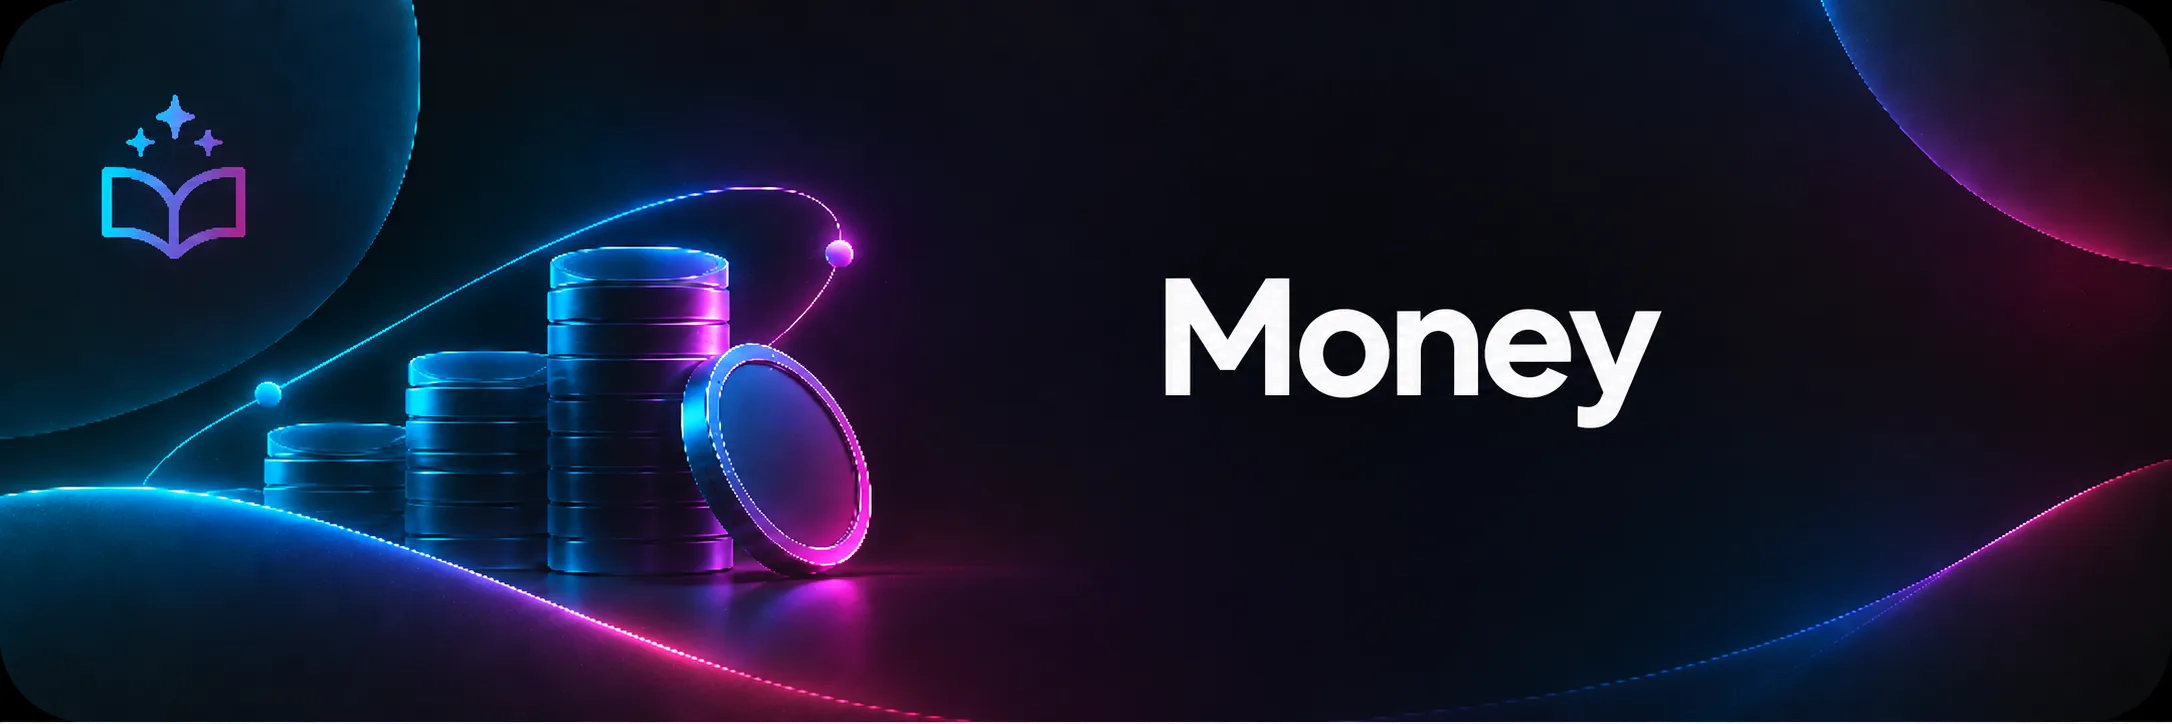
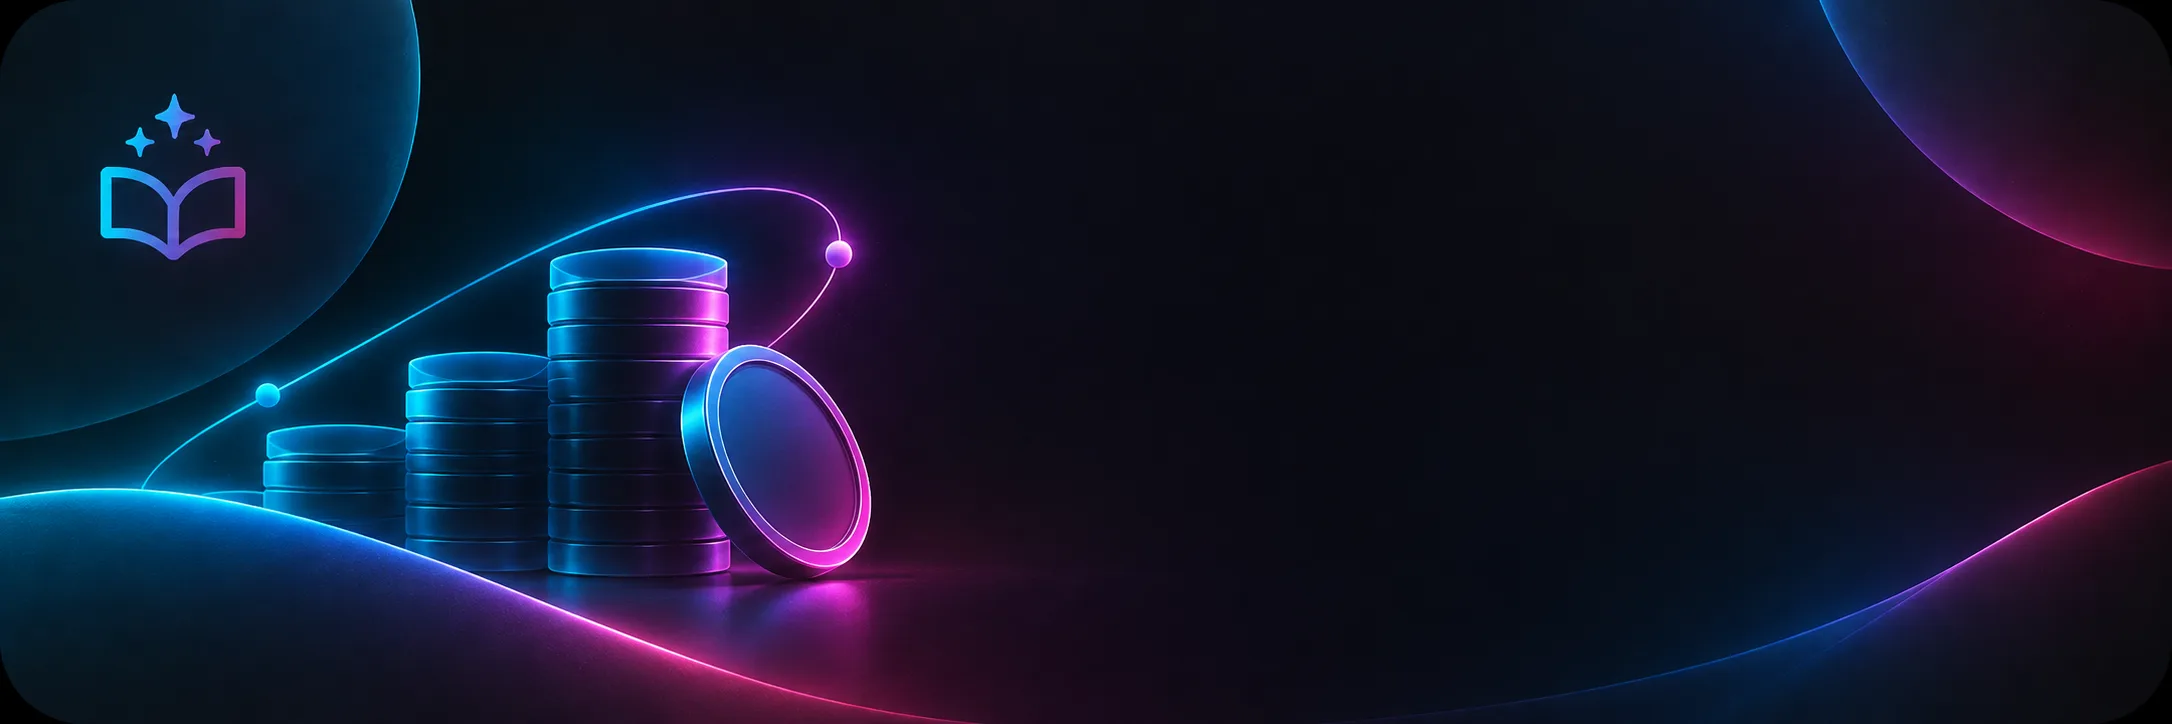
Swap in the re-exported brand art and the de-dotted wordmark
The pillar and banner images were re-uploaded without any baked-in text -
the earlier double-title clash is gone by construction, so the sr-only hack
added to work around it comes back out; the live title is the only title
again everywhere.

Sales and Money came in with their content swapped (Sales had coin art,
Money had a growth-chart arrow); picked the source file by what it actually
shows rather than by its name, since the label has to match the picture.

Brightened the pillar cards: this art is a dim, moody scene to begin with,
unlike the landing page's brighter flip-card illustrations, and its subject
sits right behind the icon rather than off to the side - the flip-card
scrim's full opacity and full-width fade were hiding almost all of it.
Opacity to 100% and the scrim narrowed to just cover the text's own measure.
It's still a subtle background at this card's ~95px height regardless - the
art reads clearly at full size, just not as a focal illustration this small.

Wordmark swapped for the no-dot version (BOOKWORM AI rather than
BOOKWORM.AI) at the same path, so every existing reference picks it up
without a code change. Verified it carries real alpha transparency (my own
preview tool composites PNGs over white, which read as a solid background
until checked with sharp) and renders correctly over the app's dark theme.

diff --git a/app/mastery/page.tsx b/app/mastery/page.tsx
@@ -115,11 +115,17 @@ export default function MasteryPage() {
                   alt=""
                   aria-hidden="true"
                   decoding="async"
-                  className="pointer-events-none absolute inset-0 h-full w-full object-cover object-right opacity-70"
+                  className="pointer-events-none absolute inset-0 h-full w-full object-cover object-right"
                 />
+                {/* Lighter and narrower than the flip-card scrim on purpose:
+                    this art is a dim, moody scene to begin with (unlike the
+                    bright flip-card illustrations), and its subject sits
+                    directly behind the icon/title rather than off to the
+                    side, so a heavy full-width fade was hiding almost all of
+                    it. Only needs to cover the text's own measure. */}
                 <div
                   aria-hidden="true"
-                  className="pointer-events-none absolute inset-0 bg-gradient-to-r from-[#1a1a1a] via-[#1a1a1a]/70 to-transparent"
+                  className="pointer-events-none absolute inset-0 bg-gradient-to-r from-[#1a1a1a] from-15% via-[#1a1a1a]/40 via-40% to-transparent"
                 />
 
                 <div className="relative flex h-12 w-12 shrink-0 items-center justify-center rounded-xl bg-gradient-to-br from-[#00D4FF]/20 to-[#FF006E]/20">
